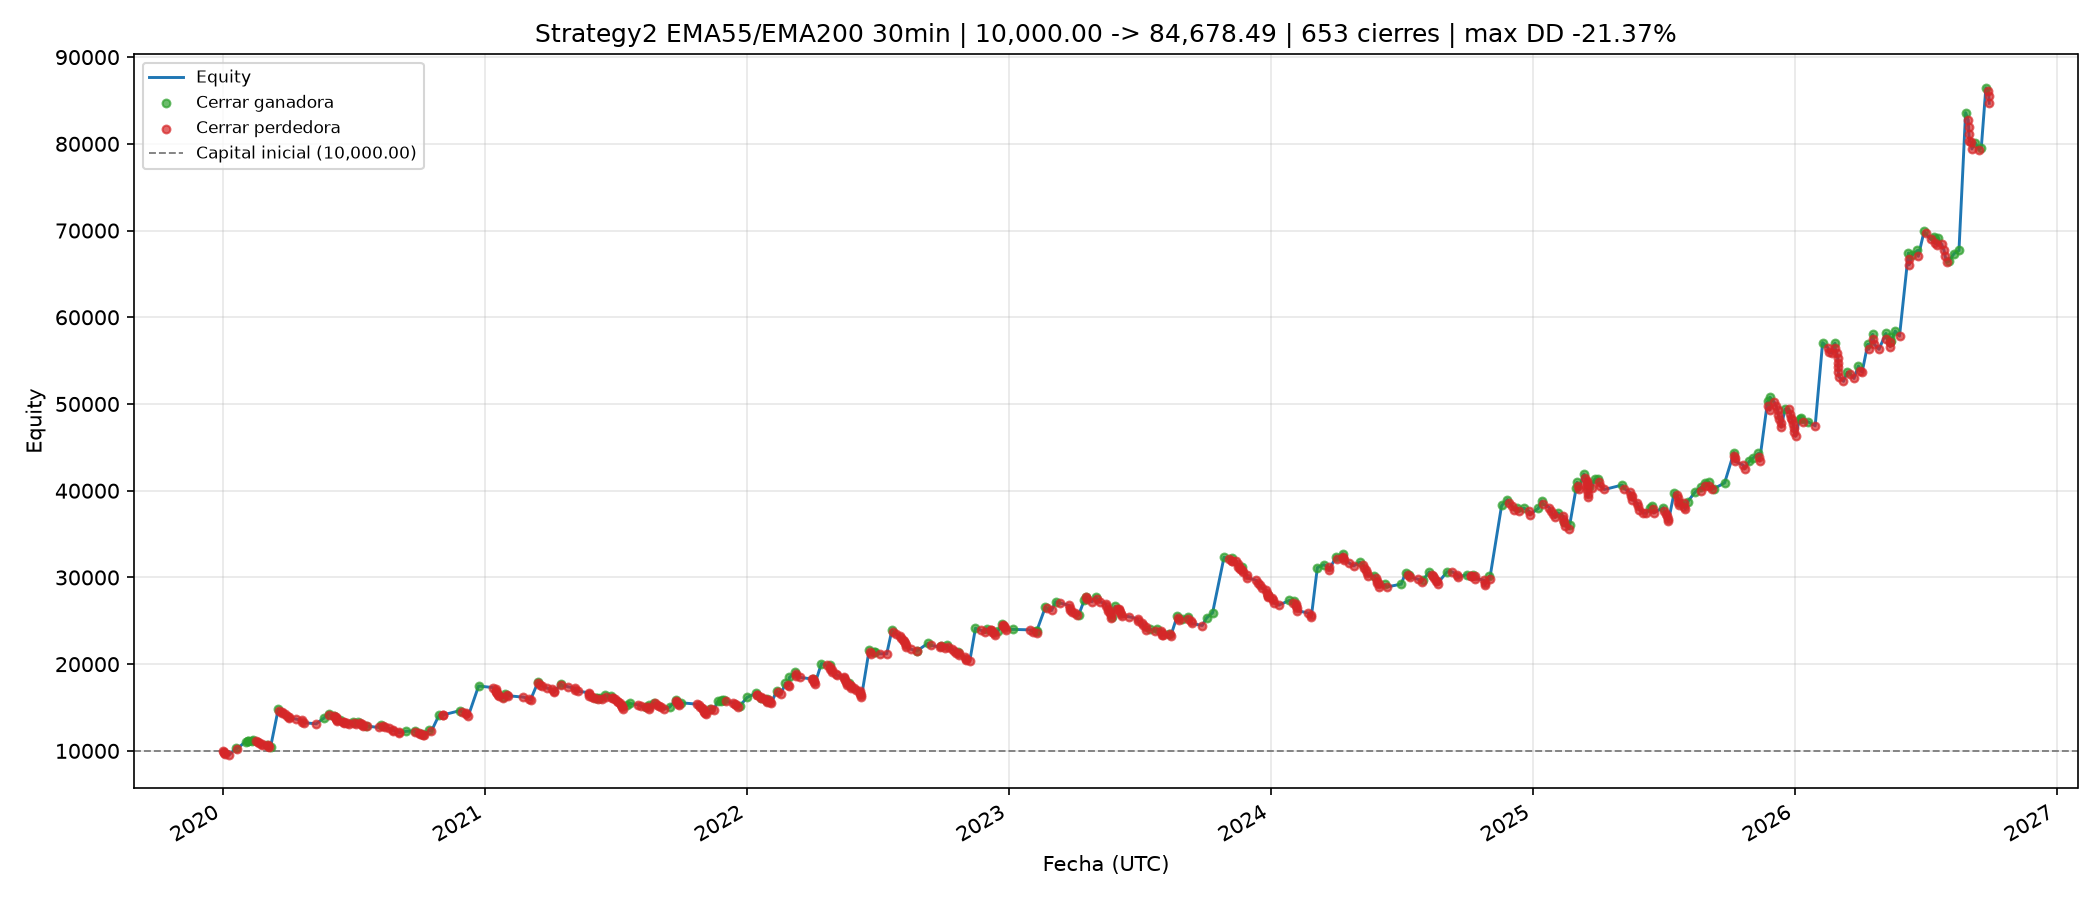
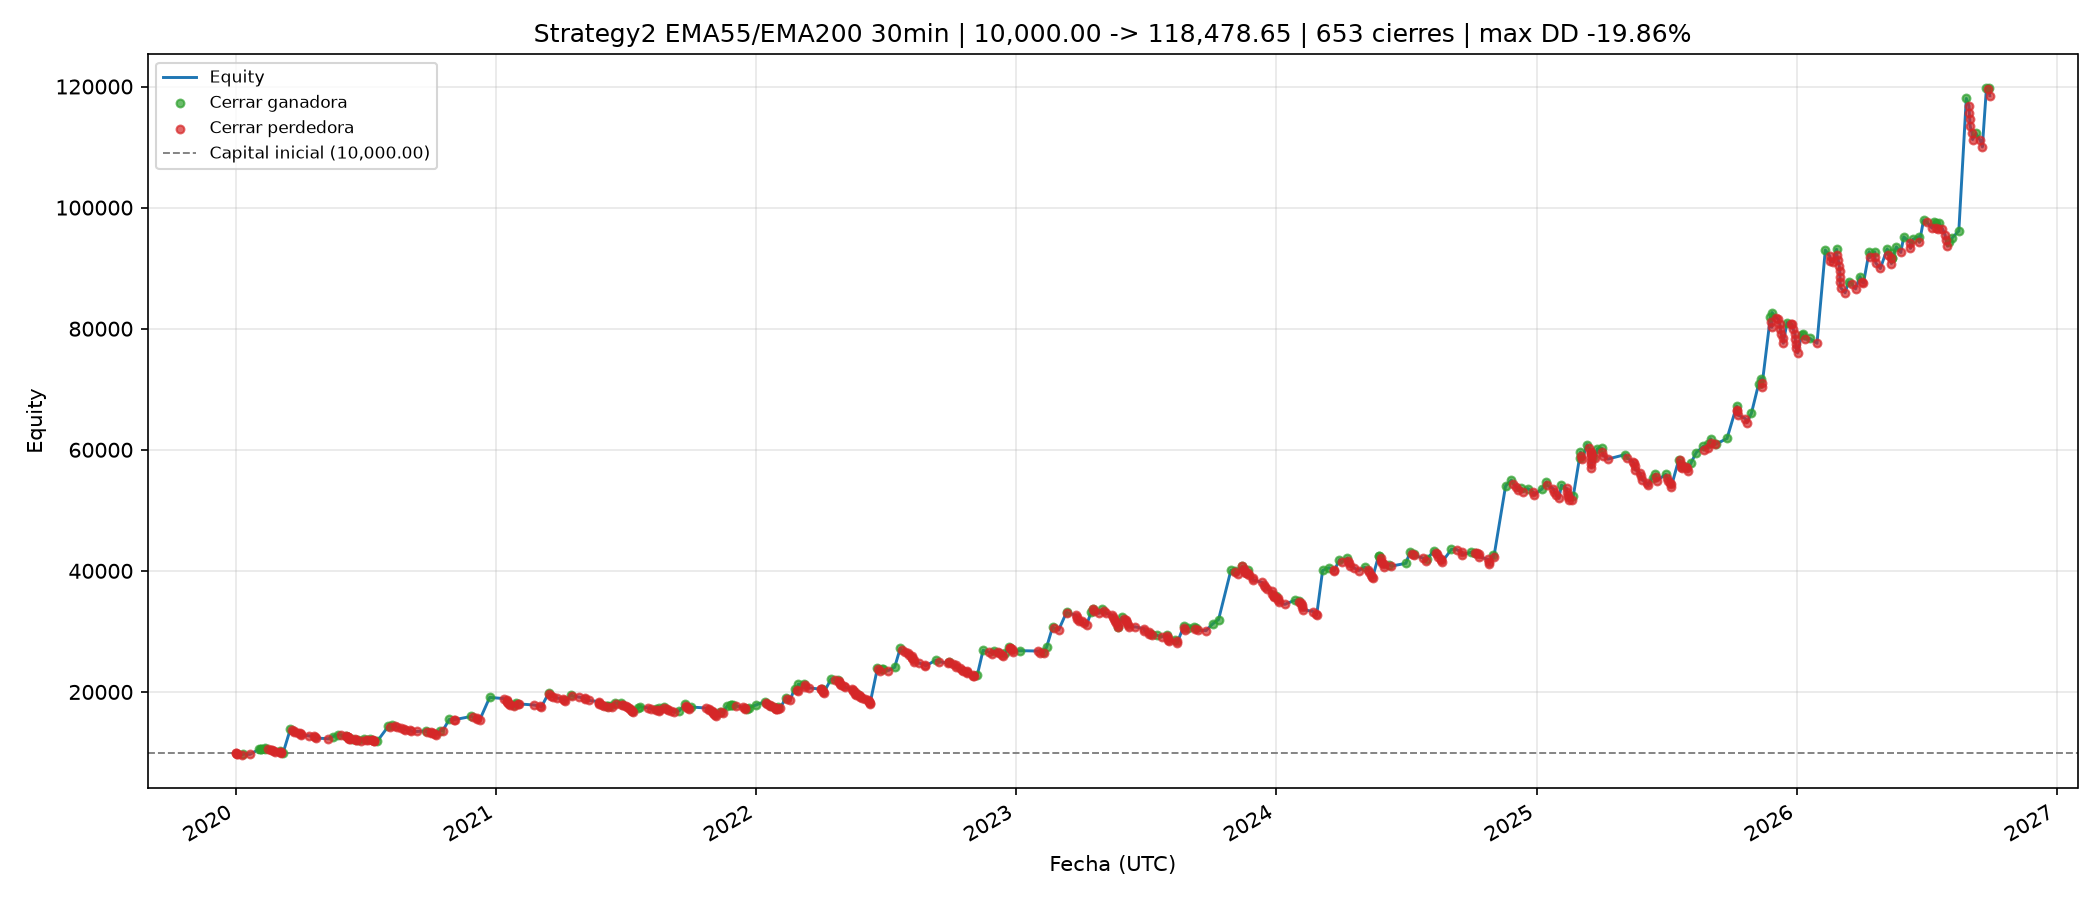
update

diff --git a/backend/services/backtest/bin/legacy/strategy/strategy2.py b/backend/services/backtest/bin/legacy/strategy/strategy2.py
@@ -110,7 +110,7 @@ class Config:
     # la estrategia.
     ema_weakening_exit_enabled: bool = True
     ema_weakening_timeframe: str = "20min"
-    ema_weakening_gap_pct: float = 0.001
+    ema_weakening_gap_pct: float = 0.002
     ema_weakening_exit_pct: float = 100.0
 
     force_close_at_end: bool = True
